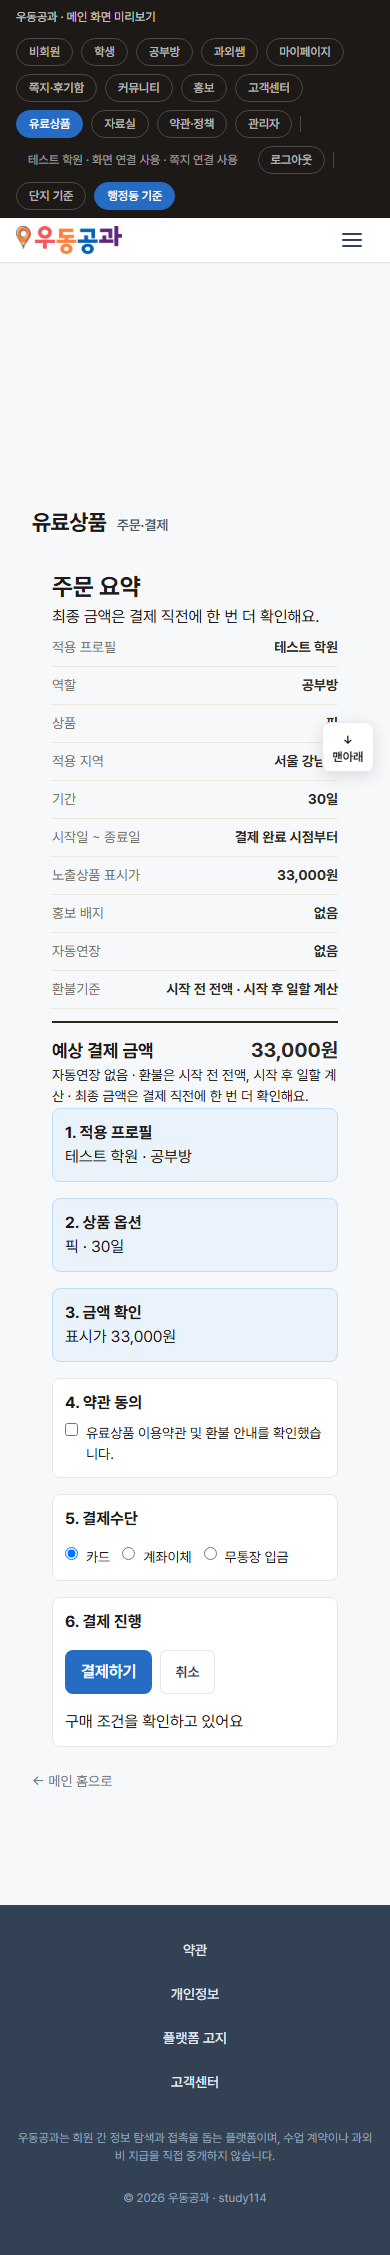
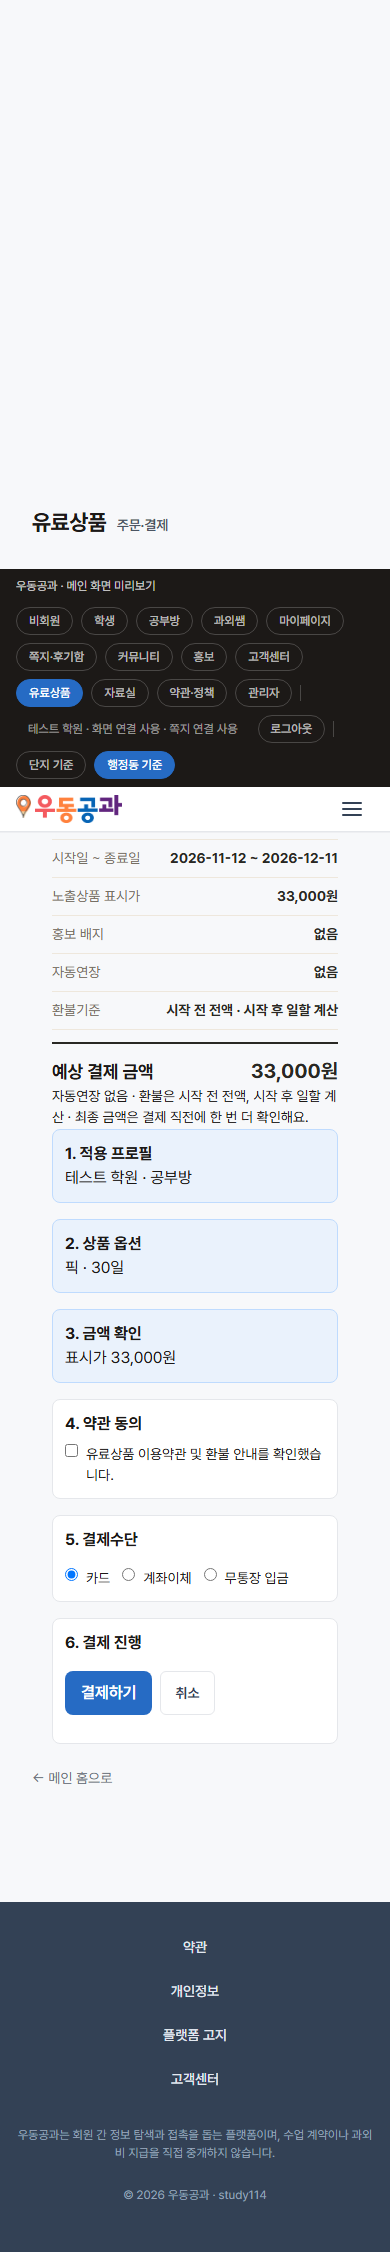
369-patch2: remaining plans copy, nowrap tweak, shots-369 recapture

diff --git a/preview/home-ui/src/plans/order-blocks.js b/preview/home-ui/src/plans/order-blocks.js
@@ -408,8 +408,8 @@ export function buildPositionOrderRows(opts) {
   return [
     { label: '적용 프로필', value: opts.profileLabel },
     { label: '역할', value: opts.roleText, nowrap: true },
-    { label: '상품', value: opts.productName, nowrap: true },
-    { label: '적용 지역', value: opts.regionValue, nowrap: true },
+    { label: '상품', value: opts.productName },
+    { label: '적용 지역', value: opts.regionValue },
     { label: '기간', value: opts.periodLabel, nowrap: true },
     ...(opts.periodRangeText ? [{ label: '시작일 ~ 종료일', value: opts.periodRangeText, nowrap: true }] : []),
     ...(opts.listPriceText ? [{ label: '정상가', value: opts.listPriceText, nowrap: true }] : []),
@@ -486,11 +486,11 @@ export function renderPolicyAccordion(family, role) {
         <div class="plans-policy-acc__body">
           <ul class="plans-tier-list">
             <li>1회 즉시권: 7일 이내 미발송 시 전액 · 발송 완료 또는 7일 경과 시 0원</li>
-            <li>5회권·10회권: 결제 후 7일 이내 · 사용 구간별 환불표(서버·약관 정본)</li>
+            <li>5회권·10회권: 결제 후 7일 이내 · 사용 구간별 환불표(약관 기준)</li>
             <li>120일 만료 시 잔여 소멸(환불액 0) · 연장 없음</li>
             <li>회사 귀책 발송 실패는 횟수 복구를 우선합니다</li>
           </ul>
-          <p class="mypage-muted">환불 가능 여부와 금액은 프론트가 계산하지 않으며, 요청 시 서버가 확정합니다.</p>
+          <p class="mypage-muted">환불 가능 여부와 금액은 요청하시면 확인해 안내해요.</p>
         </div>
       </details>`;
   }

diff --git a/preview/home-ui/src/plans/screens.js b/preview/home-ui/src/plans/screens.js
@@ -2059,7 +2059,6 @@ export function renderPlansResult() {
   if (!result) {
     return `
       <section class="mypage-panel">
-        <p class="mypage-lead">결제 결과</p>
         <div class="mypage-info-box">
           <p>표시할 결과가 없습니다.</p>
           <a href="#/plans" class="btn btn--secondary" data-plans-nav="/plans">상품홈</a>
@@ -2094,7 +2093,6 @@ export function renderPlansResult() {
 
   return `
     <section class="mypage-panel">
-      <p class="mypage-lead">${ok ? '결제 완료' : '결제 미완료'}</p>
       <div class="mypage-info-box ${ok ? '' : 'is-warn'}">
         <p><strong>${esc(orderStatusLabel(result.status === 'success' ? 'paid' : result.status))}</strong></p>
         ${result.orderRef ? `<p>주문번호 <code>${esc(result.orderRef)}</code></p>` : ''}
@@ -2684,7 +2682,7 @@ export function bindPlansScreenEvents(root, rerender) {
         }
         const serverAmount = Number(created.amount_won ?? created.sale_price_krw);
         if (!Number.isFinite(serverAmount) || serverAmount <= 0) {
-          throw new Error('서버 결제금액이 올바르지 않습니다.');
+          throw new Error('결제 금액을 확인하지 못했어요. 다시 시도해 주세요.');
         }
         // 클라이언트 draft 금액과 달라도 서버 판매가를 사용한다
         if (Number(draft.priceKrw) !== serverAmount) {

diff --git a/preview/home-ui/src/plans/store-ui.js b/preview/home-ui/src/plans/store-ui.js
@@ -271,7 +271,7 @@ export function renderBadgeAddonSection(role, ops, opts = {}) {
             .join('')}
         </ul>
       </fieldset>
-      <p class="plans-muted plans-badge-select__note">이용기간 중 추가·교체·배지 단독 결제는 없습니다. 금액은 프라임/픽과 함께 서버가 재계산합니다.</p>
+      <p class="plans-muted plans-badge-select__note">이용기간 중 추가·교체·배지 단독 결제는 없습니다. 금액은 프라임·픽과 함께 계산돼요.</p>
     </section>`;
 }
 

diff --git a/preview/home-ui/src/plans/index.js b/preview/home-ui/src/plans/index.js
@@ -117,7 +117,7 @@ export function renderPlans() {
   );
 
   if (!isCatalogReady() || !hasRoleProducts) {
-    const err = getCatalogError() || '서버 카탈로그를 불러오는 중입니다. 잠시 후 다시 시도해 주세요.';
+    const err = getCatalogError() || '상품 정보를 불러오는 중이에요. 잠시 후 다시 시도해 주세요.';
     const body = renderCatalogUnavailable(err);
     return renderPlansShell(path, body, { role, isGuest: false });
   }

diff --git a/preview/home-ui/src/plans/runtime-config.js b/preview/home-ui/src/plans/runtime-config.js
@@ -115,7 +115,7 @@ const PRODUCT_COPY = {
   },
   memo_ticket: {
     tagline: '학생에게 먼저 보내는 첫 쪽지 횟수권',
-    bullets: ['선제 쪽지만 차감', '묶음권 120일(서버 메타)', '답장·후속 무료'],
+    bullets: ['선제 쪽지만 차감', '묶음권 120일', '답장·후속 무료'],
     featured: true,
     implemented: true,
     family: 'access',

diff --git a/docs/worklog/2026/11/2026-11-12-369-checkout-layout.md b/docs/worklog/2026/11/2026-11-12-369-checkout-layout.md
@@ -1,86 +1,57 @@
-# [369] 결제 화면(주문 요약) 레이아웃·문구 정리
+# [369] / [369-보완] / [369-보완2] 결제 화면(주문 요약) 레이아웃·문구
 
 ## 지시서 원문 (요약)
 
-- 대상: `work/369-checkout-layout` 브랜치 (main 기준)
-- 범위: home-ui 유료상품 결제(주문 요약) 화면의 CSS와 문구만
-- 필수 6개: 원인 확인 → 데스크톱 1280 → 모바일 390 → 문구 → 전후 캡처 → 커밋·push
+- 대상: `work/369-checkout-layout`
+- 범위: home-ui 유료상품 결제(주문 요약) CSS·문구·캡처
+- 369: 180px 갇힘 수정 → 1280/390 → 문구 → 캡처
+- 369-보완: 모바일 nowrap · mypage-lead 중복 제거 · 개발용어 · 실앱 캡처
+- 369-보완2: 잔여 개발용어 6곳 · 상품/지역 nowrap 해제 · P18-07 제목 중복 · captures 폴더 삭제 · shots-369 재캡처
 
-## 원인 분석
+## 원인 분석 (369)
 
-**~180px 갇힘의 근본 원인:**
+**~180px 갇힘:** `.sup-frame` 2열 그리드에서 checkout이 nav를 숨기면 body가 11.5rem 열에 갇힘.  
+수정: `.sup-frame--no-nav { display: block }` + `.plans-checkout { max-width: 44rem; margin-inline: auto }`
 
-| 계층 | 파일 | 설명 |
-|---|---|---|
-| `.sup-frame` grid | `home-support-guide.css:38-40` | `display: grid; grid-template-columns: 11.5rem minmax(0,1fr)` — 2열 그리드 |
-| checkout 셸 | `shell.js:82-84` | `hideNav = true` → nav HTML 미렌더 → `sup-frame__body`가 그리드 첫 열(11.5rem ≈ 184px)에 배치 |
-| 오른쪽 열 | — | `1fr` 열은 비어 있으나 남은 공간 차지 |
+## 캡처 (shots-369 기준, 369-보완2)
 
-고객센터(`/support`) 등은 nav + body가 2열에 정상 배치되지만,
-checkout·result은 nav를 숨기므로 body가 첫 번째 좁은 열에 갇힘.
-
-## 수정 내용
-
-### CSS (`plans-store.css`)
-
-```css
-/* nav 없는 결제·결과 화면은 단일 열 */
-.plans-layout .sup-frame--no-nav { display: block; }
-.plans-checkout { max-width: 44rem; margin-inline: auto; }
-```
-
-- 주문 요약 `dd`에 `white-space: nowrap` 추가 (데스크톱 날짜 끊김 방지)
-- 959px 이하 media query에서 `white-space: normal` 리셋
-
-### 셸 (`shell.js`)
-
-- `hideNav` 시 `.sup-frame--no-nav` modifier 클래스 추가
-
-### 문구
-
-| 파일 | Before | After |
-|---|---|---|
-| `order-blocks.js:436` | `결제 금액은 서버 카탈로그 기준으로 다시 확인됩니다` | `최종 금액은 결제 직전에 한 번 더 확인해요` |
-| `order-blocks.js:116-117` | `Prime ${n}/${cap} 마감` | `프라임 ${n}/${cap} 마감` |
-| `screens.js` checkout 제목 | `결제` | `주문·결제` |
-| `screens.js` totalLabel | `결제 예정(표시가·서버 재검증)` | `예상 결제 금액` |
-| `screens.js` note | `...결제 직전 서버가 재검증합니다` | `...결제 직전 서버가 최종 확인합니다` |
-| `router.js:61` | `결제` | `주문·결제` |
-| storefront totalLabel | `결제 예정(표시가·서버 재검증)` | `예상 결제 금액` |
-| storefront note | `...표시가는 참고이며 결제 직전 서버가 재검증합니다` | `...결제 직전 서버가 최종 확인합니다` |
-
-## 캡처
+경로: `docs/worklog/2026/11/shots-369/`
 
 | 파일 | 폭 | SHA-256(16) |
 |---|---|---|
-| **before/** | | |
-| prime-badge-1280 | 1280 | `0f9f272e5c679636` |
-| prime-badge-390 | 390 | `4b1d47bf41148ab8` |
-| prime-nobadge-1280 | 1280 | `4ab213e1409e8289` |
-| prime-nobadge-390 | 390 | `b9e354d67d5385ee` |
-| pick-badge-1280 | 1280 | `39eeec0ef521b67b` |
-| pick-badge-390 | 390 | `87820729c2ec9be1` |
-| pick-nobadge-1280 | 1280 | `84730566e88105d9` |
-| pick-nobadge-390 | 390 | `5a7e1ba544ae8220` |
-| **after/** | | |
-| prime-badge-1280 | 1280 | `1d15afe3999c70f5` |
-| prime-badge-390 | 390 | `5c81d774ceca2cfb` |
-| prime-nobadge-1280 | 1280 | `1c804c869fde4b63` |
-| prime-nobadge-390 | 390 | `45fba149d0d4a24b` |
-| pick-badge-1280 | 1280 | `9b4eb34bf04a2977` |
-| pick-badge-390 | 390 | `5094a7cae877541b` |
-| pick-nobadge-1280 | 1280 | `66b1ac1cbd7cd4ec` |
-| pick-nobadge-390 | 390 | `2a20334431f98d1e` |
+| after-prime-badge-1280.png | 1280 | `99891fda30864ba6` |
+| after-prime-badge-390.png | 390 | `34d4a66ee5399c2d` |
+| after-prime-nobadge-1280.png | 1280 | `6967bf5a084596fb` |
+| after-prime-nobadge-390.png | 390 | `3f8a887480e63f8a` |
+| after-pick-badge-1280.png | 1280 | `6cb50f2b1d74cf0e` |
+| after-pick-badge-390.png | 390 | `bef89addf09579ac` |
+| after-pick-nobadge-1280.png | 1280 | `9d96f5928e641a9b` |
+| after-pick-nobadge-390.png | 390 | `34aea07da3880bf4` |
+| result-success-1280.png | 1280 | `02edf679b887f63f` |
+| result-success-390.png | 390 | `d3d185be049ed269` |
+| storefront-prime-badge-390.png | 390 | `942cb1ba4129e351` |
 
-모든 해시 상이 ✓
+해시 중복 0. 루트 `captures/369-checkout-before`·`after` 폴더는 삭제.
 
-## 수정 파일
+### 390 날짜·금액 한 줄 확인
+
+| 시나리오 | 날짜 | 금액 |
+|---|---|---|
+| prime-badge | `2026-11-12 ~ 2027-02-09` nowrap | `99,000원` nowrap |
+| prime-nobadge | 동일 | 동일 |
+| pick-badge | `2026-11-12 ~ 2026-12-11` nowrap | `33,000원` nowrap |
+| pick-nobadge | 동일 | 동일 |
+
+## 수정 파일 (누적)
 
 1. `preview/home-ui/src/styles/plans-store.css`
 2. `preview/home-ui/src/plans/shell.js`
 3. `preview/home-ui/src/plans/order-blocks.js`
 4. `preview/home-ui/src/plans/screens.js`
 5. `preview/home-ui/src/plans/router.js`
+6. `preview/home-ui/src/plans/store-ui.js`
+7. `preview/home-ui/src/plans/index.js`
+8. `preview/home-ui/src/plans/runtime-config.js`
 
 ## 검수
 
